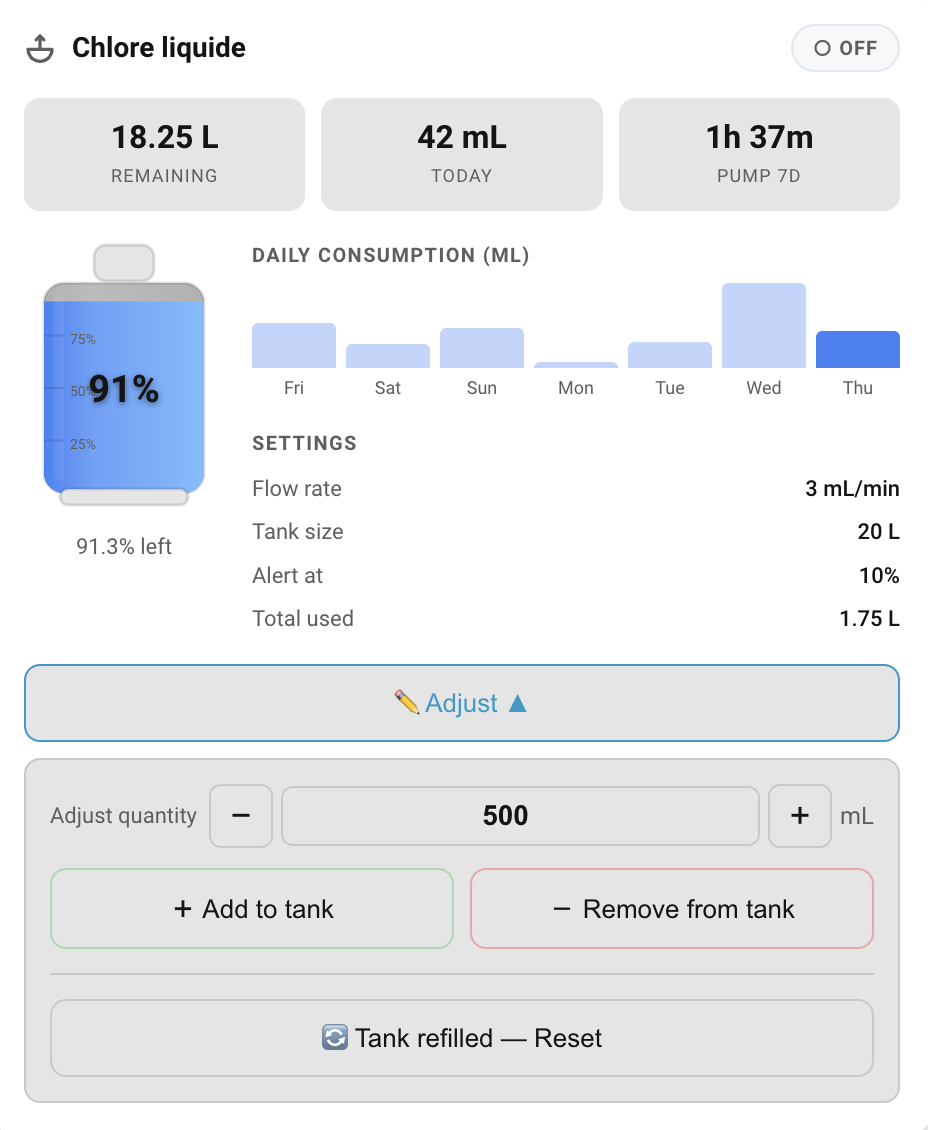
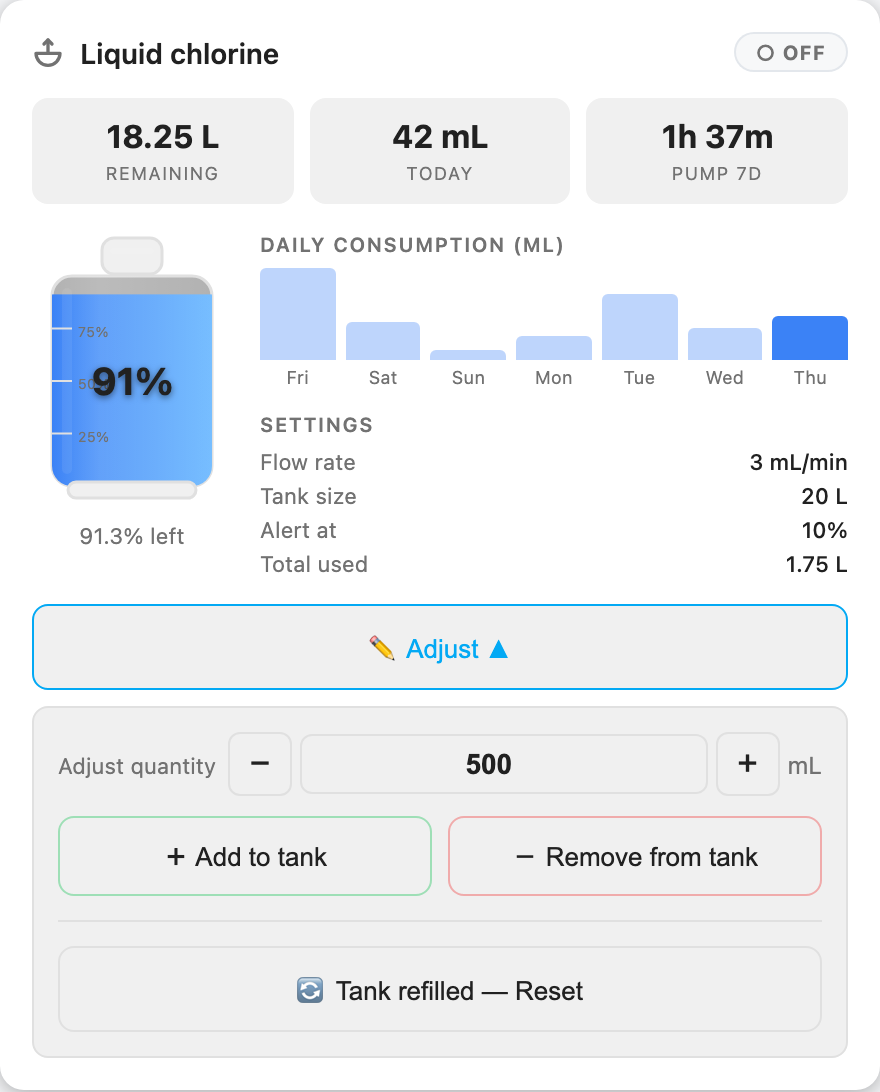
docs: localized screenshots (EN + FR)

diff --git a/README.fr.md b/README.fr.md
@@ -14,7 +14,7 @@ Une carte Lovelace pour suivre le niveau d'un **bidon de dosage liquide** — ch
 
 > 🇬🇧 [Read in English](README.md)
 
-![Capture d'écran](https://raw.githubusercontent.com/ADNPolymerase/ha-dosing-tank-card/main/docs/screenshot.png)
+![Capture d'écran](https://raw.githubusercontent.com/ADNPolymerase/ha-dosing-tank-card/main/docs/screenshot.fr.png)
 
 ---
 
